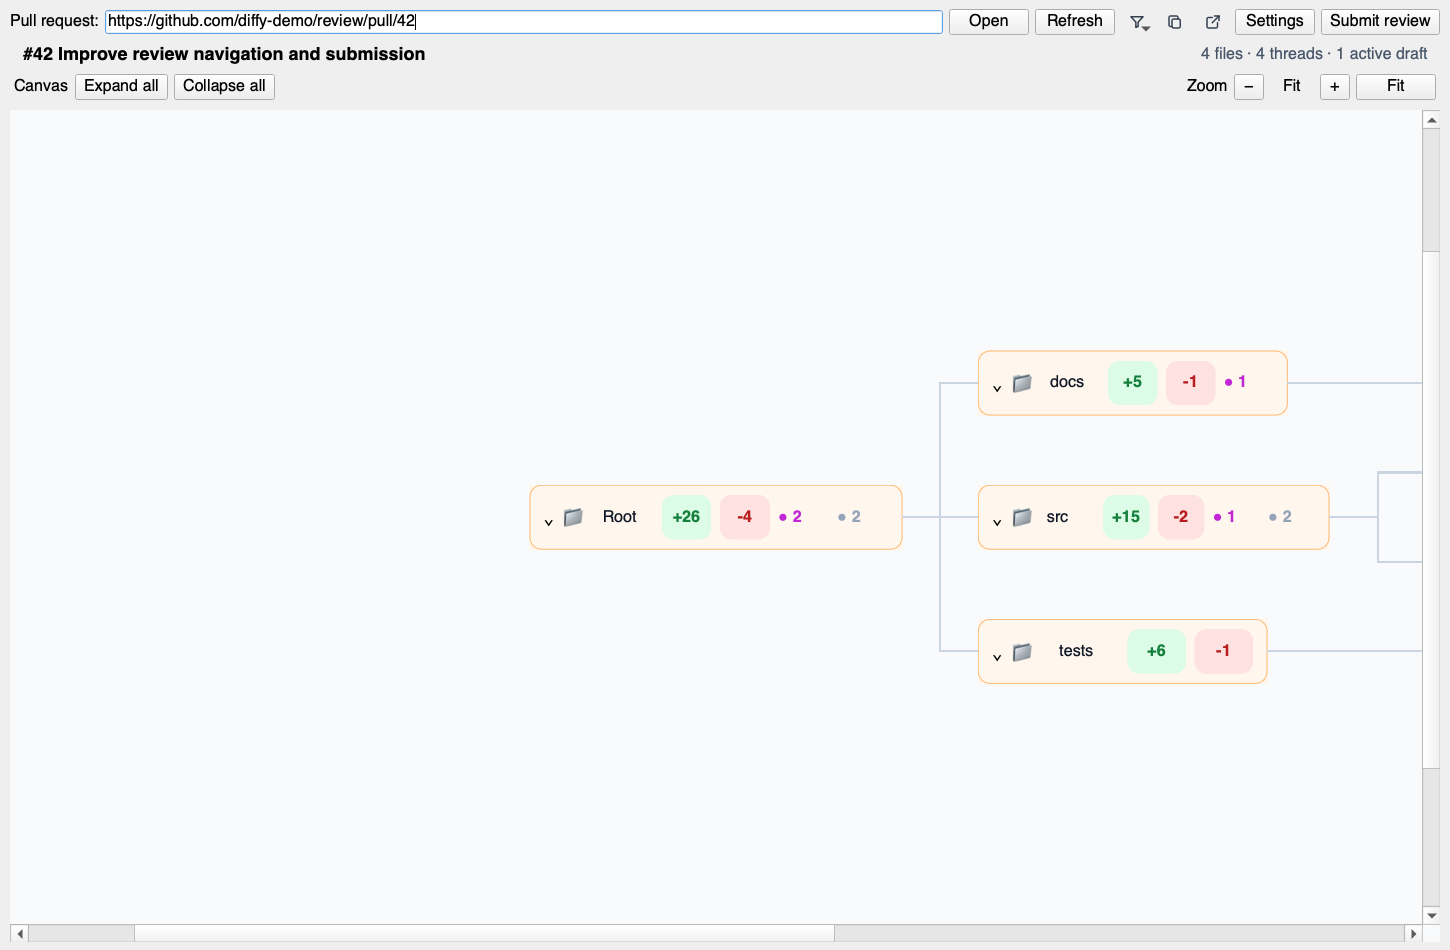
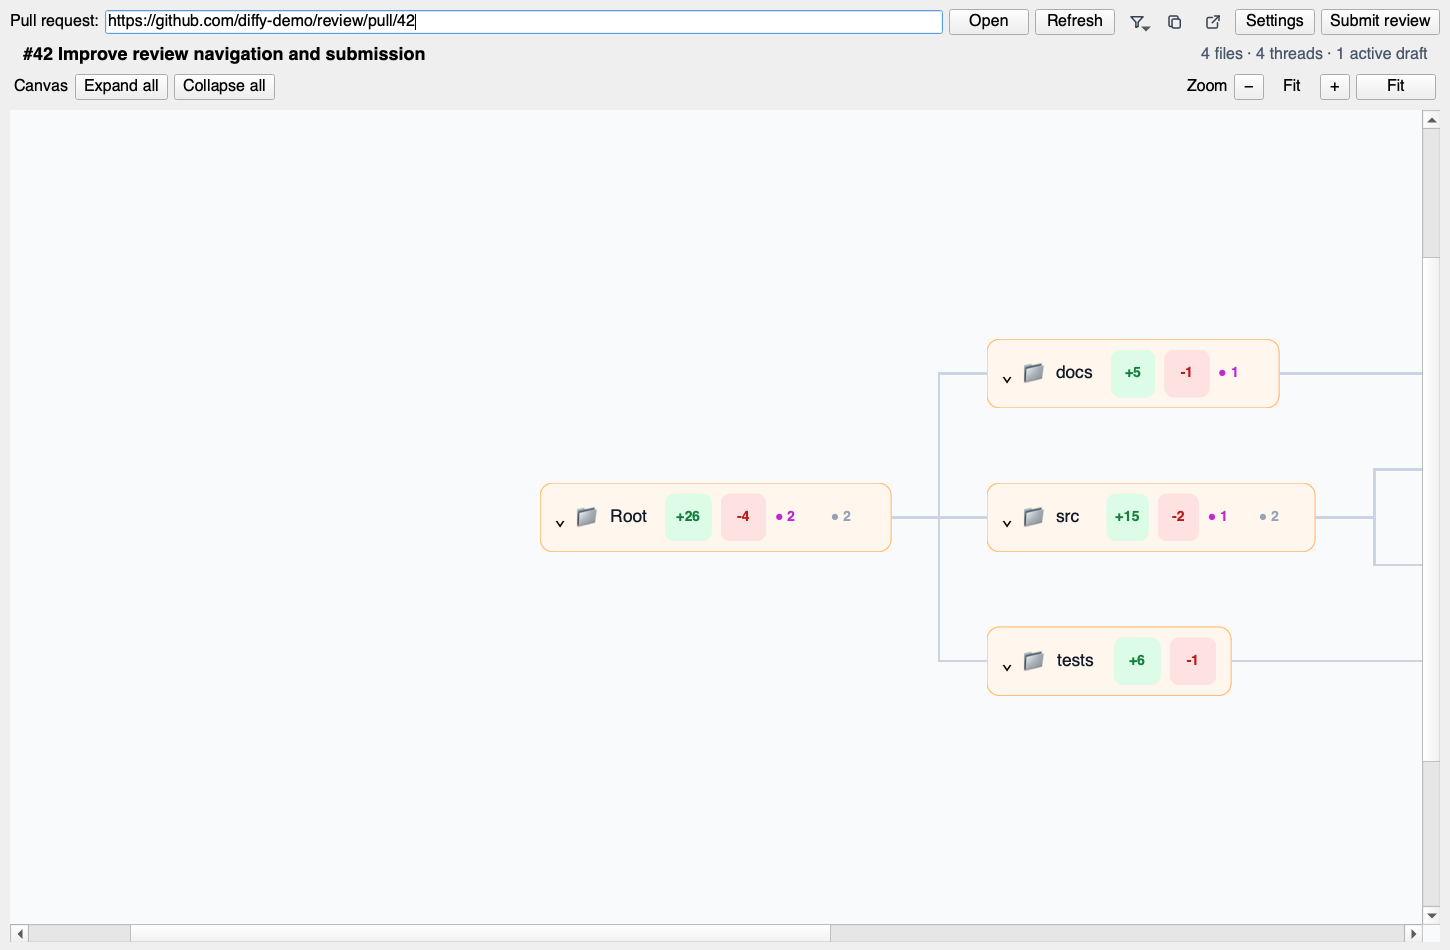
Improve Canvas node density

diff --git a/diffy/ui/tree_node.py b/diffy/ui/tree_node.py
@@ -60,25 +60,27 @@ class TreeNodeWidget(QWidget):
         name_label.setStyleSheet("background: transparent; border: 0; color: #111827;")
         layout.addWidget(name_label)
 
-        additions_label = QLabel(f"+{additions}")
-        additions_label.setAlignment(Qt.AlignmentFlag.AlignCenter)
-        additions_label.setStyleSheet("background: #dcfce7; color: #15803d; border: 0; border-radius: 12px; padding: 4px 7px; font-weight: 600;")
-        layout.addWidget(additions_label)
+        if additions:
+            additions_label = QLabel(f"+{additions}")
+            additions_label.setAlignment(Qt.AlignmentFlag.AlignCenter)
+            additions_label.setStyleSheet("background: #dcfce7; color: #15803d; border: 0; border-radius: 9px; padding: 2px 6px; font-size: 13px; font-weight: 600;")
+            layout.addWidget(additions_label)
 
-        deletions_label = QLabel(f"-{deletions}")
-        deletions_label.setAlignment(Qt.AlignmentFlag.AlignCenter)
-        deletions_label.setStyleSheet("background: #fee2e2; color: #b91c1c; border: 0; border-radius: 12px; padding: 4px 7px; font-weight: 600;")
-        layout.addWidget(deletions_label)
+        if deletions:
+            deletions_label = QLabel(f"-{deletions}")
+            deletions_label.setAlignment(Qt.AlignmentFlag.AlignCenter)
+            deletions_label.setStyleSheet("background: #fee2e2; color: #b91c1c; border: 0; border-radius: 9px; padding: 2px 6px; font-size: 13px; font-weight: 600;")
+            layout.addWidget(deletions_label)
 
         if open_comment_count:
             open_comment_label = QLabel(f"● {open_comment_count}")
             open_comment_label.setToolTip("Open comments")
-            open_comment_label.setStyleSheet("background: transparent; color: #c026d3; border: 0; font-weight: 600;")
+            open_comment_label.setStyleSheet("background: transparent; color: #c026d3; border: 0; font-size: 13px; font-weight: 600;")
             layout.addWidget(open_comment_label)
         if resolved_comment_count:
             resolved_comment_label = QLabel(f"● {resolved_comment_count}")
             resolved_comment_label.setToolTip("Resolved comments")
-            resolved_comment_label.setStyleSheet("background: transparent; color: #94a3b8; border: 0; font-weight: 600;")
+            resolved_comment_label.setStyleSheet("background: transparent; color: #94a3b8; border: 0; font-size: 13px; font-weight: 600;")
             layout.addWidget(resolved_comment_label)
 
         for child in self.findChildren(QLabel):

diff --git a/diffy/ui/main_window.py b/diffy/ui/main_window.py
@@ -601,19 +601,26 @@ class SpatialCanvas(QGraphicsView):
         column_gap = 90
         metrics = QFontMetrics(QFont(self.font_family, self.font_size))
 
+        badge_metrics = QFontMetrics(QFont(self.font_family, 13))
+
+        def badge_width(value: str) -> int:
+            return badge_metrics.horizontalAdvance(value) + 12
+
         def estimated_width(icon: str, name: str, status: str | None, additions: int, deletions: int, comment_counts: tuple[int, int]) -> int:
             icon_width = metrics.horizontalAdvance(icon)
             name_width = metrics.horizontalAdvance(name)
             status_width = 34 if status else 0
-            additions_width = metrics.horizontalAdvance(f"+{additions}") + 16
-            deletions_width = metrics.horizontalAdvance(f"-{deletions}") + 16
             open_count, resolved_count = comment_counts
-            comment_width = 0
+            badges = [badge_width(f"+{additions}")] if additions else []
+            if deletions:
+                badges.append(badge_width(f"-{deletions}"))
             if open_count:
-                comment_width += metrics.horizontalAdvance(f"● {open_count}") + 8
+                badges.append(badge_width(f"● {open_count}"))
             if resolved_count:
-                comment_width += metrics.horizontalAdvance(f"● {resolved_count}") + 8
-            return max(285, 28 + icon_width + name_width + status_width + additions_width + deletions_width + comment_width + 28)
+                badges.append(badge_width(f"● {resolved_count}"))
+            child_count = 2 + bool(status) + len(badges)
+            spacing = max(0, child_count - 1) * 8
+            return max(220, 28 + icon_width + name_width + status_width + sum(badges) + spacing)
 
         root_additions, root_deletions = self._change_totals(self.tree)
         max_node_width = estimated_width("⌄  📁", "Root", None, root_additions, root_deletions, self._comment_counts_for_node(self.tree))
